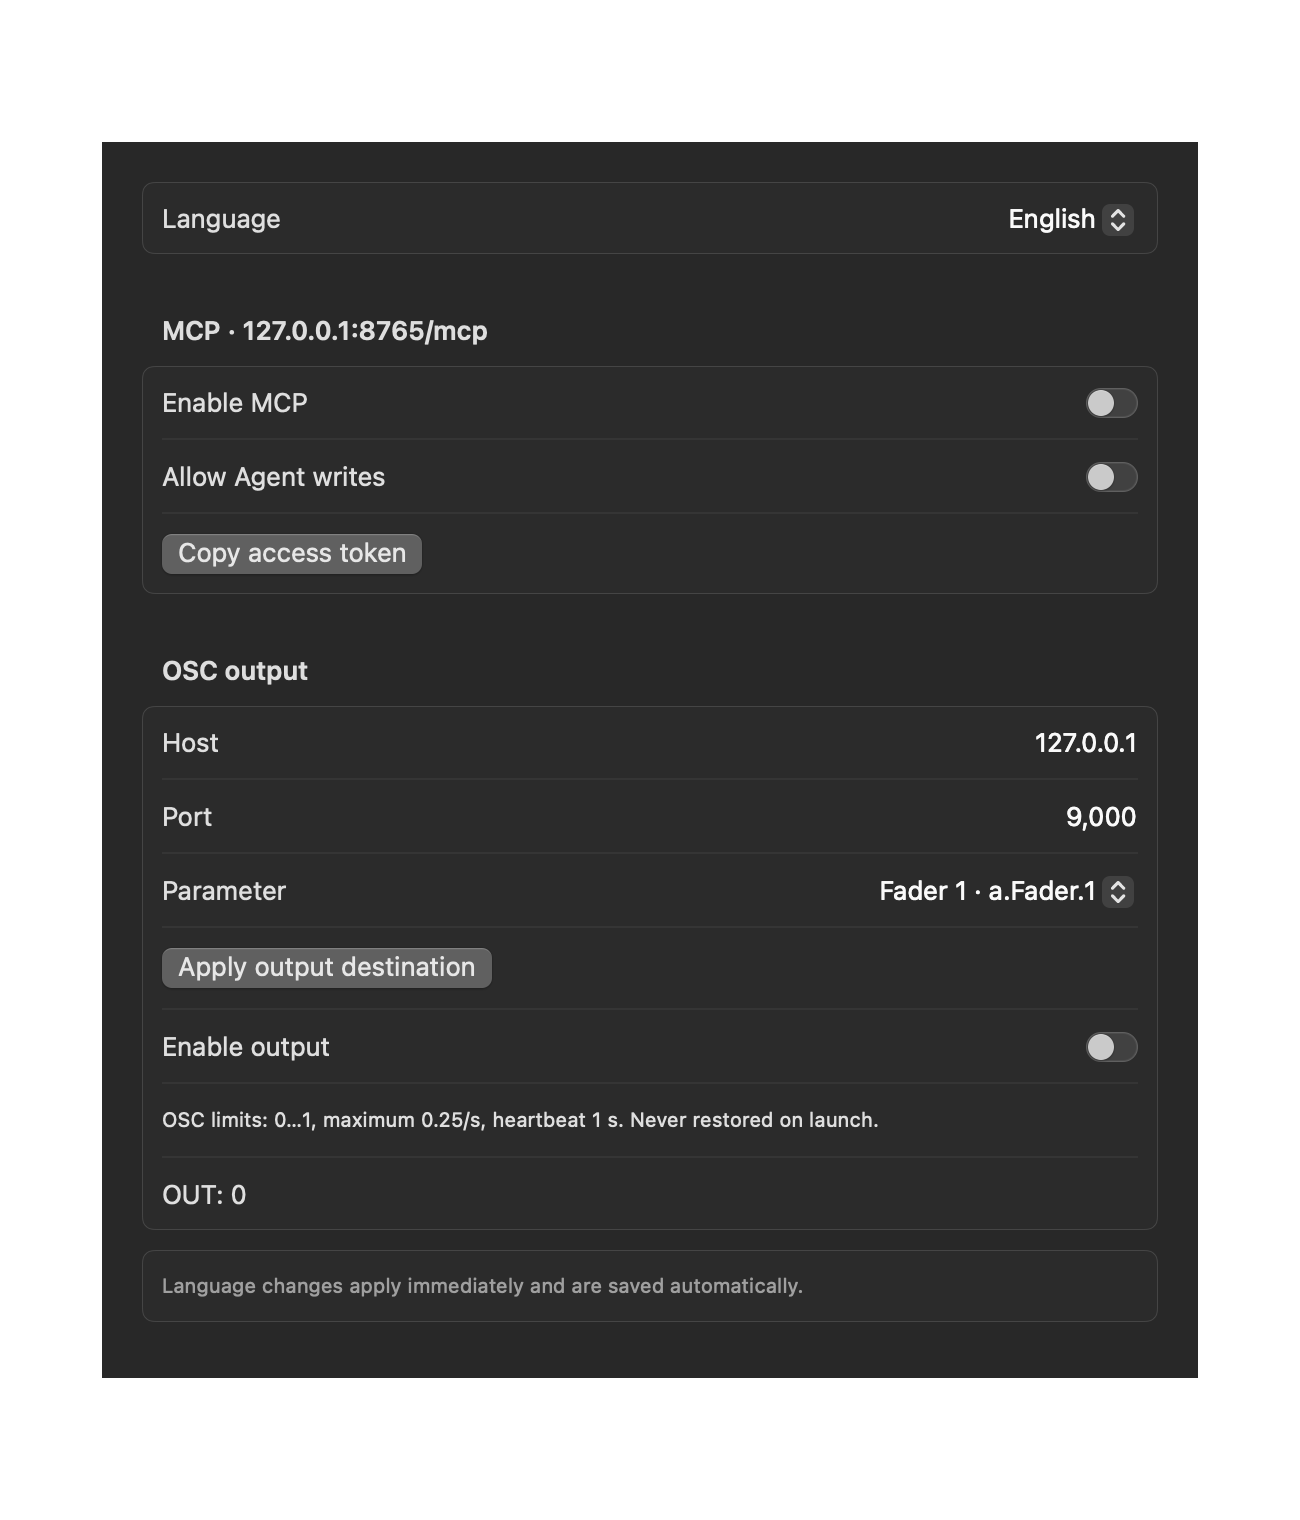
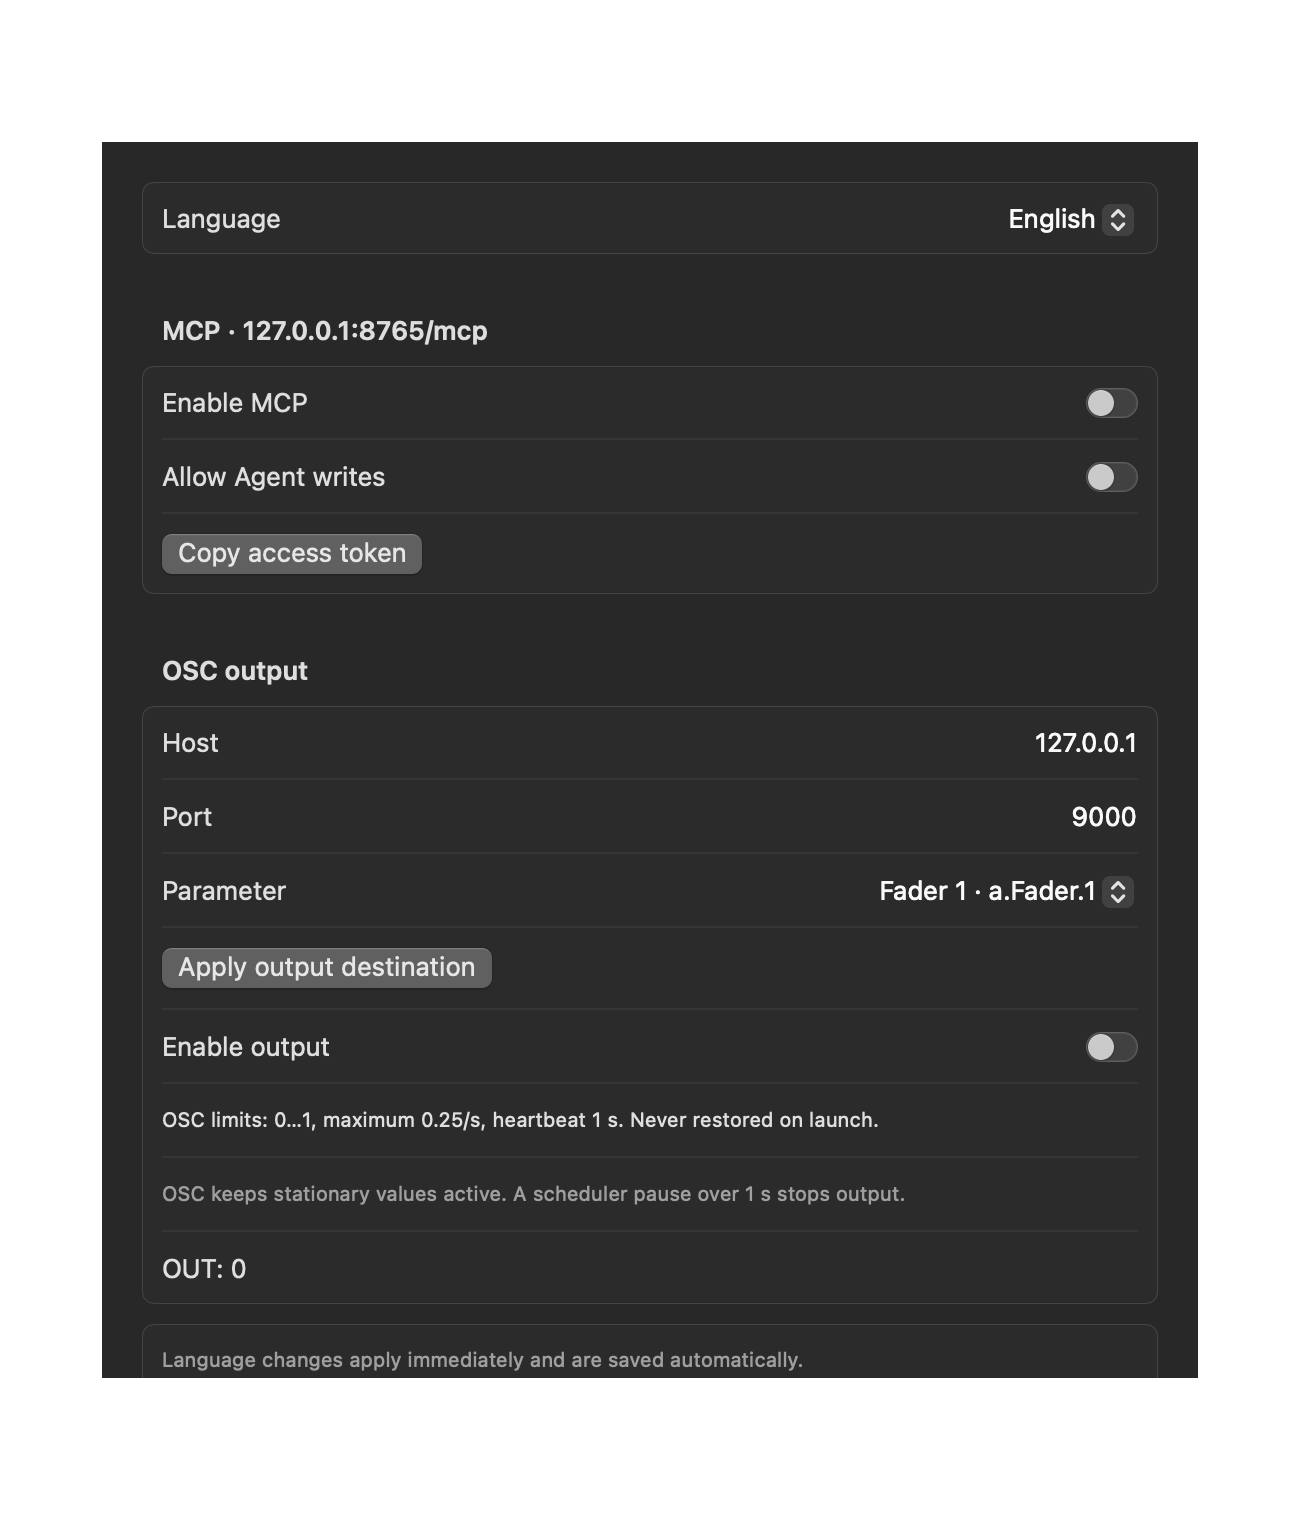
fix: keep stationary OSC output alive under the model scheduler
Move runtime scheduling out of the view into the model. Inject OSCTransport and the existing clock, make repeated enable idempotent, ignore stale transport callbacks, and notify on timeout, missing parameters and transport failure. Each tick validates the previous scheduler heartbeat before refreshing it; stationary values remain valid without parameter activity.

Contract/API additions: OSCTransport protocol and ConsoleModel.init oscTransport injection. No additional PanelIntents here. ExternalServicesSettings now seeds/backfills local fields from the existing oscHost/oscPort/oscParameter snapshot fields and renders mcpPort introduced in commit 4. XTouchCompactApp starts model-owned runtime work instead of a view Timer. Frontend-author review of both views is required; this batch is explicitly accepted by the user.

Tests use an injected clock/transport for stationary output, real scheduler gaps, failures and enable lifecycle, plus idle publication and a scheduler running without a window.

Validation: tested this cumulative candidate in an isolated exported working tree with swift test --jobs 2, swift build --jobs 2, SwiftFormat/Ruff checks and repository command-manifest validation.
無實機驗證。Mock/fake MIDI/loopback tests do not establish physical firmware behavior. No push, force push or tag.

Changed region(s): [[0.1231, 0.773, 0.6154, 0.8967], [0.5846, 0.773, 0.6769, 0.8039], [0.8, 0.5257, 0.8308, 0.5566]]

diff --git a/Sources/XTouchCompactApp/ExternalServices.swift b/Sources/XTouchCompactApp/ExternalServices.swift
@@ -71,42 +71,51 @@
         }
 
         func setOSCEnabled(_ enabled: Bool) {
-            let time = Date().timeIntervalSince1970
             if !enabled {
-                oscConnection?.cancel(); oscConnection = nil; oscGate.setEnabled(false, now: time); oscEnabled = false; return
-            }
-            guard !oscHost.isEmpty, let port = NWEndpoint.Port(rawValue: oscPort), !oscParameter.isEmpty else { serviceError(OSCError.invalidAddress); return }
-            oscGate.setEnabled(false, now: time)
-            oscGate.setEnabled(true, now: time)
-            let connection = NWConnection(host: NWEndpoint.Host(oscHost), port: port, using: .udp)
-            oscConnection = connection
-            connection.stateUpdateHandler = { [weak self] state in
-                if case let .failed(error) = state {
-                    Task { @MainActor in self?.setOSCEnabled(false); self?.serviceError(error) }
+                oscTransport.stop(); oscGate.setEnabled(false, now: runtimeTime)
+                if oscEnabled {
+                    oscEnabled = false
                 }
+                return
             }
-            connection.start(queue: .main); oscEnabled = true
+            guard !oscEnabled else { return }
+            guard !oscHost.isEmpty, oscPort > 0, session.parameters.definition(oscParameter) != nil else {
+                oscFault("OSC output stopped: destination or parameter is invalid."); return
+            }
+            do {
+                try oscTransport.start(host: oscHost, port: oscPort) { [weak self] error in
+                    self?.oscFault("OSC output stopped: transport failure."); self?.serviceError(error)
+                }
+                let time = runtimeTime
+                oscGate.setEnabled(false, now: time)
+                oscGate.setEnabled(true, now: time)
+                oscEnabled = true
+            } catch { oscFault("OSC output stopped: transport failure."); serviceError(error) }
         }
 
         func tickOSC() {
             guard oscEnabled else { return }
-            let time = Date().timeIntervalSince1970
-            // The app heartbeat is checked before refreshing, so a stalled UI trips the gate.
-            guard let value = session.parameters.values[oscParameter], let definition = session.parameters.definition(oscParameter),
-                  let output = oscGate.sample((value - definition.minimum) / (definition.maximum - definition.minimum), now: time)
-            else {
-                setOSCEnabled(false); return
+            let time = runtimeTime
+            guard let value = session.parameters.values[oscParameter], let definition = session.parameters.definition(oscParameter) else {
+                oscFault("OSC output stopped: destination or parameter is invalid."); return
             }
+            guard let output = oscGate.sample((value - definition.minimum) / (definition.maximum - definition.minimum), now: time) else {
+                oscFault("OSC output stopped: scheduler heartbeat expired or safety gate tripped."); return
+            }
+            // sample validates the elapsed interval against the previous heartbeat first.
+            // Only a timely scheduler tick refreshes liveness; a constant value is valid.
             oscGate.beat(now: time)
             do {
-                let packet = try OSCCodec.encode(address: "/xtouch/value", value: Float(output))
-                oscConnection?.send(content: packet, completion: .contentProcessed { [weak self] error in
-                    if let error {
-                        Task { @MainActor in self?.setOSCEnabled(false); self?.serviceError(error) }
-                    }
-                })
-                oscOutput = output
-            } catch { setOSCEnabled(false); serviceError(error) }
+                try oscTransport.send(OSCCodec.encode(address: "/xtouch/value", value: Float(output)))
+                if oscOutput != output {
+                    oscOutput = output
+                }
+            } catch { oscFault("OSC output stopped: transport failure."); serviceError(error) }
+        }
+
+        private func oscFault(_ key: String) {
+            setOSCEnabled(false)
+            notificationsForOSC(key)
         }
     }
 #endif

diff --git a/Tests/XTouchCompactAppTests/OSCOutputTests.swift b/Tests/XTouchCompactAppTests/OSCOutputTests.swift
@@ -1,0 +1,80 @@
+#if os(macOS)
+    import Foundation
+    import Testing
+    @testable import XTouchCompactApp
+    import XTouchCompactCore
+
+    @MainActor private final class FakeOSC: OSCTransport {
+        var starts = 0
+        var stops = 0
+        var packets: [Data] = []
+        var failure: ((any Error) -> Void)?
+        func start(host _: String, port _: UInt16, onFailure: @escaping (any Error) -> Void) throws {
+            starts += 1; failure = onFailure
+        }
+
+        func send(_ data: Data) {
+            packets.append(data)
+        }
+
+        func stop() {
+            stops += 1; failure = nil
+        }
+    }
+
+    @Test @MainActor func oscSchedulerKeepsStationaryValuesAndTripsAfterActualPause() {
+        let clock = TestClock()
+        let transport = FakeOSC()
+        let model = ConsoleModel(startsMIDI: false, now: { clock.date }, oscTransport: transport)
+        model.setOSCEnabled(true)
+        model.setOSCEnabled(true)
+        #expect(transport.starts == 1)
+        clock.time += 0.5
+        model.setParameter(model.oscParameter, value: 127)
+        model.tickOSC()
+        #expect(model.oscOutput == 0.125)
+        #expect(transport.packets.count == 1)
+        for _ in 0 ..< 40 {
+            clock.time += 0.25
+            model.tickOSC() // No new parameter writes for ten seconds.
+            #expect(model.oscEnabled)
+        }
+        #expect(transport.packets.count == 41)
+        clock.time += 1.1 // An actual scheduler pause must trip before refreshing.
+        model.tickOSC()
+        #expect(!model.oscEnabled)
+        #expect(transport.stops == 1)
+        #expect(model.notifications.contains { $0.id == "osc" })
+        model.setOSCEnabled(true)
+        model.oscParameter = "missing"
+        model.tickOSC()
+        #expect(!model.oscEnabled)
+        #expect(model.notifications.first(where: { $0.id == "osc" })?.message?.key.contains("invalid") == true)
+        model.oscParameter = "a.Fader.1"
+        model.setOSCEnabled(true)
+        transport.failure?(OSCError.invalidAddress)
+        #expect(!model.oscEnabled)
+        #expect(model.notifications.contains { $0.id == "osc" })
+    }
+
+    @Test @MainActor func oscInvalidDestinationUsesOSCError() {
+        let transport = NetworkOSCTransport()
+        #expect(throws: OSCError.self) { try transport.start(host: "", port: 9000, onFailure: { _ in }) }
+        #expect(throws: OSCError.self) { try transport.start(host: "127.0.0.1", port: 0, onFailure: { _ in }) }
+    }
+
+    @Test @MainActor func stationaryInitialValueSurvivesWithoutAnyWrite() {
+        let clock = TestClock()
+        let transport = FakeOSC()
+        let model = ConsoleModel(startsMIDI: false, now: { clock.date }, oscTransport: transport)
+        model.setOSCEnabled(true)
+        for _ in 0 ..< 60 {
+            clock.time += 0.25
+            model.tickOSC()
+        }
+        #expect(model.oscEnabled)
+        #expect(transport.packets.count == 60)
+        #expect(model.oscOutput == 0)
+        #expect(!model.notifications.contains { $0.id == "osc" })
+    }
+#endif

diff --git a/Sources/XTouchCompactApp/ExternalServicesSettings.swift b/Sources/XTouchCompactApp/ExternalServicesSettings.swift
@@ -6,22 +6,29 @@
         let snapshot: PanelSnapshot
         let intents: PanelIntents
         @EnvironmentObject private var language: LanguageSettings
-        @State private var host = "127.0.0.1"
-        @State private var port: UInt16 = 9000
-        @State private var parameter = "a.Fader.1"
+        @State private var host: String
+        @State private var port: UInt16
+        @State private var parameter: String
+        init(snapshot: PanelSnapshot, intents: PanelIntents) {
+            self.snapshot = snapshot; self.intents = intents
+            _host = State(initialValue: snapshot.oscHost)
+            _port = State(initialValue: snapshot.oscPort)
+            _parameter = State(initialValue: snapshot.oscParameter)
+        }
+
         private var l: Localizer {
             language.localizer
         }
 
         var body: some View {
-            Section("MCP · 127.0.0.1:8765/mcp") {
+            Section("MCP · 127.0.0.1:\(String(snapshot.mcpPort))/mcp") {
                 Toggle(l.text("Enable MCP"), isOn: Binding(get: { snapshot.mcpEnabled }, set: { intents.setMCPEnabled?($0) }))
                 Toggle(l.text("Allow Agent writes"), isOn: Binding(get: { snapshot.mcpWritesAllowed }, set: { intents.setMCPWritesAllowed?($0) }))
                 Button(l.text("Copy access token")) { intents.copyMCPToken?() }
             }
             Section(l.text("OSC output")) {
                 TextField(l.text("Host"), text: $host)
-                TextField(l.text("Port"), value: $port, format: .number)
+                TextField(l.text("Port"), value: $port, format: .number.grouping(.never))
                 Picker(l.text("Parameter"), selection: $parameter) {
                     ForEach(snapshot.configuration.parameters) { Text($0.name + " · " + $0.id).tag($0.id) }
                 }
@@ -29,8 +36,13 @@
                 Toggle(l.text("Enable output"), isOn: Binding(get: { snapshot.oscEnabled }, set: { intents.setOSCEnabled?($0) }))
                 Text(l.text("OSC limits: 0…1, maximum 0.25/s, heartbeat 1 s. Never restored on launch."))
                     .font(.caption)
+                Text(l.text("OSC keeps stationary values active. A scheduler pause over 1 s stops output."))
+                    .font(.caption).foregroundStyle(.secondary)
                 Text("OUT: \(snapshot.oscOutput.formatted())")
             }
+            .onChange(of: snapshot.oscHost) { _, value in host = value }
+            .onChange(of: snapshot.oscPort) { _, value in port = value }
+            .onChange(of: snapshot.oscParameter) { _, value in parameter = value }
         }
     }
 #endif

diff --git a/Sources/XTouchCompactApp/ConsoleModel.swift b/Sources/XTouchCompactApp/ConsoleModel.swift
@@ -56,7 +56,8 @@
         @Published var oscEnabled = false
         @Published var oscOutput = 0.0
         var oscGate = try! MotionSafetyGate()
-        var oscConnection: NWConnection?
+        let oscTransport: any OSCTransport
+        private var runtimeTask: Task<Void, Never>?
         private var agentOutput = false
 
         private let midi: any MIDIService
@@ -67,8 +68,9 @@
         private(set) var session: CompactSession
         private(set) var mock: MockXTouchCompact
 
-        init(startsMIDI: Bool = true, midi: (any MIDIService)? = nil, now: @escaping () -> Date = Date.init, storageRoot: URL? = nil, isolated: Bool = false) {
+        init(startsMIDI: Bool = true, midi: (any MIDIService)? = nil, now: @escaping () -> Date = Date.init, storageRoot: URL? = nil, isolated: Bool = false, oscTransport: (any OSCTransport)? = nil) {
             self.midi = midi ?? CoreMIDIService()
+            self.oscTransport = oscTransport ?? NetworkOSCTransport()
             self.now = now
             self.isolated = isolated
             store = storageRoot.map(ProtectedWorkspaceStore.init(directory:))
@@ -164,8 +166,11 @@
 
         func advanceAgents() {
             tickOSC()
-            agents.advance(to: now().timeIntervalSince1970)
-            apply { try $0.agentFeedback(agents) }
+            var next = agents
+            next.advance(to: runtimeTime)
+            guard next != agents else { return }
+            agents = next
+            apply { try $0.agentFeedback(next) }
         }
 
         func setParameter(_ id: String, value: Double, fromAgent: Bool = false) {
@@ -339,6 +344,27 @@
         func realignCurrentLayer() {
             setLayer(layer)
         }
+
+        func startRuntime() {
+            guard runtimeTask == nil else { return }
+            runtimeTask = Task { [weak self] in
+                while !Task.isCancelled {
+                    do { try await Task.sleep(for: .milliseconds(250)) } catch { break }
+                    self?.advanceAgents()
+                }
+            }
+        }
+
+        func stopRuntime() {
+            runtimeTask?.cancel(); runtimeTask = nil; setOSCEnabled(false)
+        }
+
+        func notificationsForOSC(_ key: String) {
+            notifications.removeAll { $0.id == "osc" }
+            notifications.append(ConsoleNotification(id: "osc", level: .warning, message: LocalizedMessage(key), persistent: false))
+        }
+
+        deinit { runtimeTask?.cancel() }
 
         private enum ConsoleError: Error { case noConnection }
 

diff --git a/Sources/XTouchCompactApp/OSCTransport.swift b/Sources/XTouchCompactApp/OSCTransport.swift
@@ -1,0 +1,43 @@
+#if os(macOS)
+    import Foundation
+    import Network
+    import XTouchCompactCore
+
+    @MainActor protocol OSCTransport: AnyObject {
+        func start(host: String, port: UInt16, onFailure: @escaping (any Error) -> Void) throws
+        func send(_ data: Data)
+        func stop()
+    }
+
+    @MainActor final class NetworkOSCTransport: OSCTransport {
+        private var connection: NWConnection?
+        private var generation = UUID()
+        private var onFailure: ((any Error) -> Void)?
+        func start(host: String, port: UInt16, onFailure: @escaping (any Error) -> Void) throws {
+            stop()
+            guard !host.isEmpty, port > 0, let port = NWEndpoint.Port(rawValue: port) else { throw OSCError.invalidAddress }
+            self.onFailure = onFailure
+            let generation = generation
+            let connection = NWConnection(host: NWEndpoint.Host(host), port: port, using: .udp)
+            self.connection = connection
+            connection.stateUpdateHandler = { [weak self] state in
+                if case let .failed(error) = state {
+                    Task { @MainActor in guard self?.generation == generation else { return }; self?.onFailure?(error) }
+                }
+            }
+            connection.start(queue: .main)
+        }
+
+        func send(_ data: Data) {
+            let generation = generation
+            connection?.send(content: data, completion: .contentProcessed { [weak self] error in
+                guard let error else { return }
+                Task { @MainActor in guard self?.generation == generation else { return }; self?.onFailure?(error) }
+            })
+        }
+
+        func stop() {
+            generation = UUID(); connection?.cancel(); connection = nil; onFailure = nil
+        }
+    }
+#endif

diff --git a/Sources/XTouchCompactApp/XTouchCompactApp.swift b/Sources/XTouchCompactApp/XTouchCompactApp.swift
@@ -12,7 +12,9 @@
             let root = isolated ? nil : FileManager.default.urls(for: .applicationSupportDirectory, in: .userDomainMask).first?.appendingPathComponent("XTouchCompactConsole")
             let defaults = isolated ? UserDefaults(suiteName: "XTouchCompactDev.tests.\(UUID().uuidString)")! : .standard
             _language = StateObject(wrappedValue: LanguageSettings(defaults: defaults))
-            _model = StateObject(wrappedValue: ConsoleModel(startsMIDI: !isolated, storageRoot: root, isolated: isolated))
+            let model = ConsoleModel(startsMIDI: !isolated, storageRoot: root, isolated: isolated)
+            model.startRuntime()
+            _model = StateObject(wrappedValue: model)
         }
 
         var body: some Scene {
@@ -23,7 +25,6 @@
                     .onReceive(NotificationCenter.default.publisher(for: NSLocale.currentLocaleDidChangeNotification)) { _ in
                         language.refreshSystemLanguage()
                     }
-                    .onReceive(Timer.publish(every: 0.25, on: .main, in: .common).autoconnect()) { _ in model.advanceAgents() }
                     .task {
                         let arguments = ProcessInfo.processInfo.arguments
                         if let index = arguments.firstIndex(of: "--snapshot-output"), arguments.indices.contains(index + 1) {

diff --git a/Tests/XTouchCompactAppTests/AgentSessionTests.swift b/Tests/XTouchCompactAppTests/AgentSessionTests.swift
@@ -1,0 +1,28 @@
+#if os(macOS)
+    import Combine
+    import Foundation
+    import Testing
+    @testable import XTouchCompactApp
+    import XTouchCompactCore
+    import XTouchCompactLocalization
+
+    @Test @MainActor func idleTicksDoNotPublishAndModelOwnsScheduler() async throws {
+        let clock = TestClock()
+        let model = ConsoleModel(startsMIDI: false, now: { clock.date })
+        var changes = 0
+        let subscription = model.objectWillChange.sink { changes += 1 }
+        for _ in 0 ..< 20 {
+            model.advanceAgents()
+        }
+        #expect(changes == 0)
+        model.agentPrimary(1)
+        clock.time += 3
+        model.startRuntime() // No window or view exists in this test.
+        for _ in 0 ..< 100 where model.agents.slots[0].phase == .running {
+            try await Task.sleep(for: .milliseconds(10))
+        }
+        #expect(model.agents.slots[0].phase == .waitingApproval)
+        model.stopRuntime()
+        withExtendedLifetime(subscription) {}
+    }
+#endif

diff --git a/Tests/XTouchCompactAppTests/TestClock.swift b/Tests/XTouchCompactAppTests/TestClock.swift
@@ -1,0 +1,11 @@
+#if os(macOS)
+    import Foundation
+
+    @MainActor final class TestClock {
+        var time: TimeInterval = 100
+        var date: Date {
+            Date(timeIntervalSince1970: time)
+        }
+    }
+
+#endif
